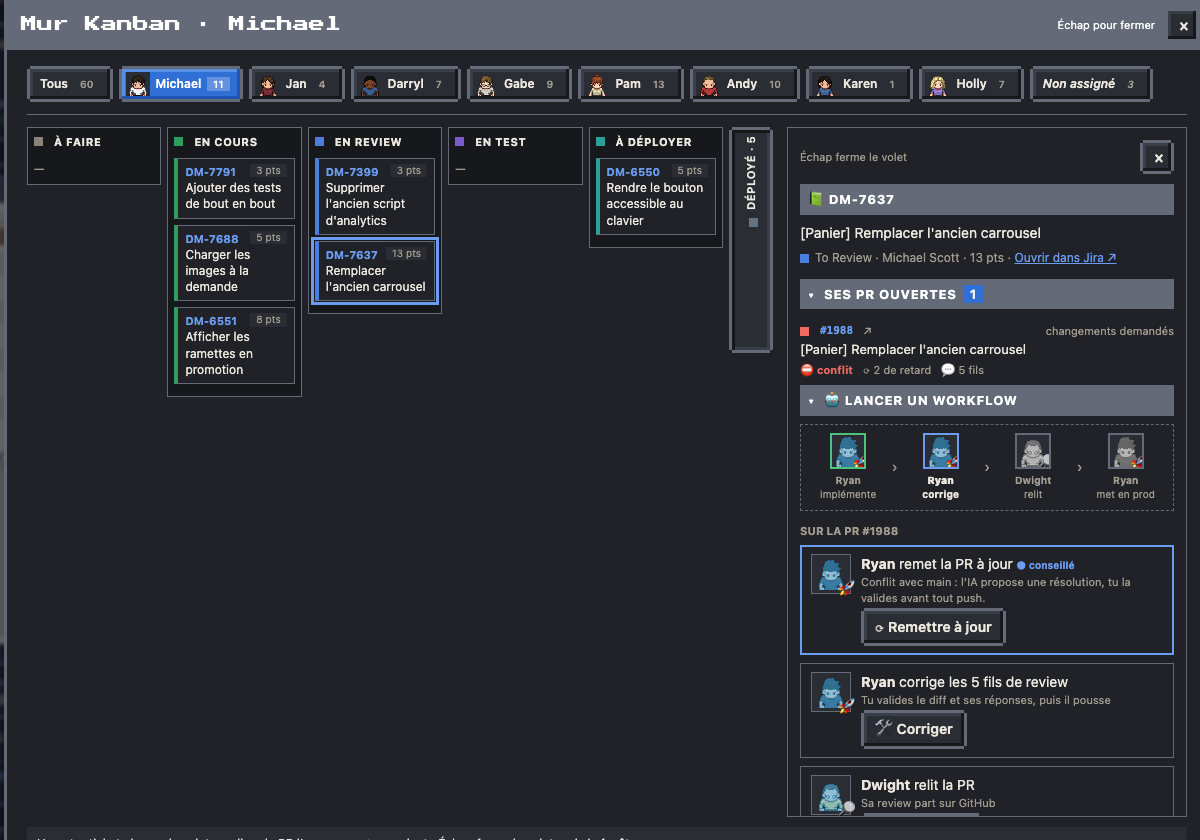
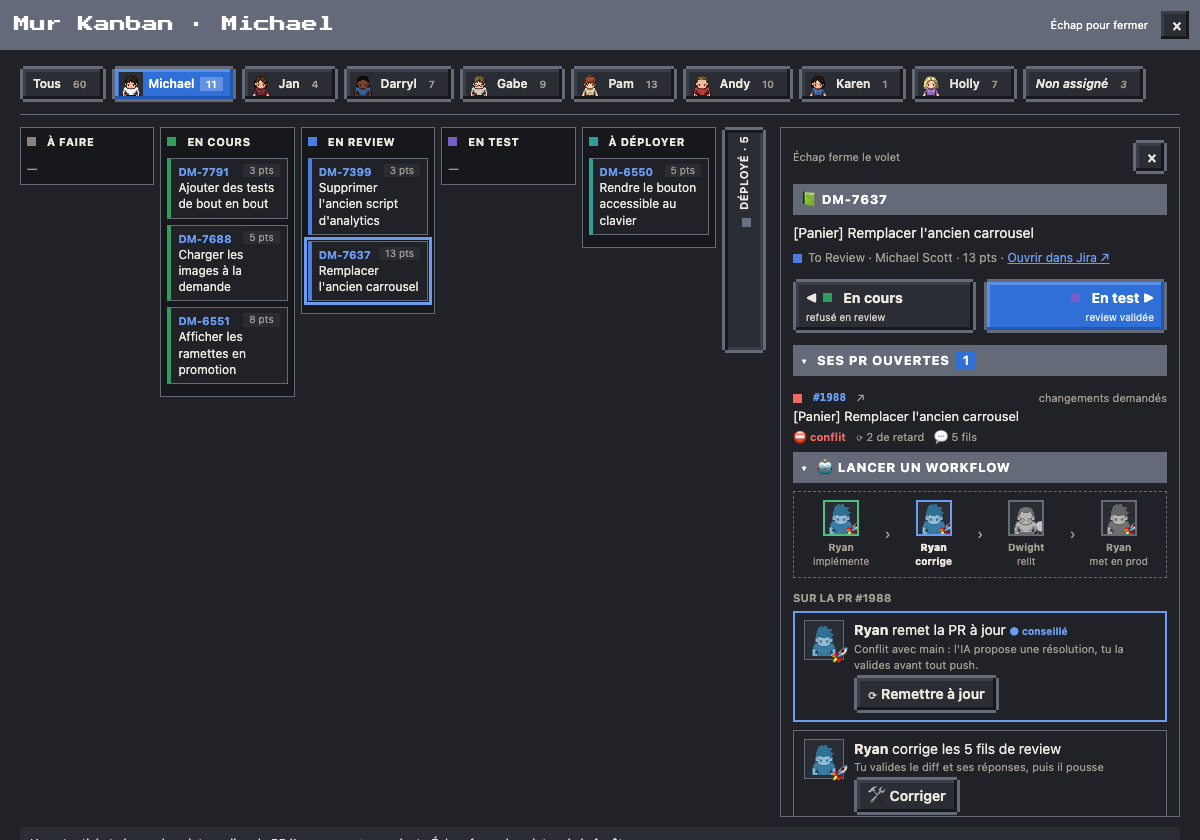
feat(jira): déplacer un ticket d'une colonne depuis sa fiche (◀ / ▶, 0 token) (#117)
## 🎯 Quoi et pourquoi
Pour faire changer un ticket de colonne, il fallait passer par Jira. Sa
fiche, dans le volet du Kanban, a maintenant deux boutons : « Colonne ▶
» pour avancer d'une colonne, « ◀ Colonne » pour reculer d'une colonne.
Ils lancent un workflow à 0 token qui fait la transition dans Jira.

Les règles viennent du workflow Jira EW, lu sur un ticket de chaque
statut : on avance de À faire jusqu'à Deployed, et on recule depuis En
cours jusqu'à To Deploy. Décisions prises sur maquettes : boutons seuls
(pas de glisser-déposer), les reculs que Jira autorise sauf Reopen, tous
les tickets du sprint, et un bouton manuel vers Deployed.

## 🔧 Changements
- **Workflow « Le Bureau · déplacer un ticket »**
(`workflows/templates/move.json`, `actions.move`, créé quand Jira est
connecté), sur la recette de « me l'affecter » :
- lire le ticket (s'il est déjà dans le statut visé, le run s'arrête là,
réussi) ;
- lire ses transitions et choisir celle qui mène au statut visé, par son
nom : une transition propre au flux plutôt qu'une globale, sans aucun id
écrit en dur. S'il n'y en a pas, le message liste ce que Jira propose ;
  - passer par l'API bulk, puis relire le ticket et vérifier son statut.
- **Bouton de page `bureau-move`** : la clé et le statut visé sont relus
par Kronn dans le dataset `actions` (`moves.find(id)`). La page n'envoie
que l'id de la ligne.
- **Dataset `actions`** (`actions_snapshot.py`) : une ligne `moves` par
[…]

diff --git a/page/src/62-ticket.js b/page/src/62-ticket.js
@@ -147,6 +147,42 @@ function launchBlock(box,{action,bind,name,sub,label,title,off,done,verb,next}){
   }).observe(b,{attributes:true,attributeFilter:['data-kronn-action-state']});
   host.append(b,n);kronnModal(host,b,title,()=>{const c=verb&&actAgent(action);return verb?{c,ico:'🤖',name:(c?c.name:'Le Bureau')+' '+verb,small:sub}:{ico:'🎫'};});box.appendChild(host);
 }
+// ◀ / ▶ : déplacer le ticket d'une colonne (workflow « déplacer un ticket », actions.move). Les sens et le statut Jira
+// visé viennent du dataset actions (moves, cron équipe) : le bouton n'envoie que l'id de la ligne, Kronn y relit le reste.
+// Avancer en bleu, reculer en gris ; chaque bouton dit la colonne visée et la raison du passage.
+const MV_ORDER=['todo','doing','review','test','deploy','done'];
+const MV_WHY={'doing>todo':'pas encore commencé','review>doing':'refusé en review','test>review':'à revoir','deploy>test':'à retester',
+  'todo>doing':'on s\'y met','doing>review':'PR prête','review>test':'review validée','test>deploy':'test validé','deploy>done':'mis en prod à la main'};
+// les boutons d'un ticket : [{m (ligne de actions.moves), to (colonne visée), why, bind}], reculer d'abord ; [] sans le workflow
+function mvRows(x){
+  if(!ACTIONS.move||!ACTS||!Array.isArray(ACTS.moves))return [];
+  return ['prev','next'].map(d=>ACTS.moves.find(m=>m.key===x.key&&m.dir===d)).filter(Boolean).map(m=>{
+    const to=MV_ORDER[MV_ORDER.indexOf(x.cat)+(m.dir==='next'?1:-1)];
+    return {m,to,why:MV_WHY[x.cat+'>'+to]||'',bind:bindsFor('bureau-move',m)};}).filter(r=>r.bind);
+}
+function moveBlock(side,x){
+  const rows=mvRows(x);if(!rows.length)return;
+  const host=document.createElement('div');host.className='mv-host';host.setAttribute('data-kronn-action-slot-host','');
+  const row=document.createElement('div');row.className='mv';host.appendChild(row);
+  const hint=document.createElement('div');hint.className='hint mv-hint'; // dans la fenêtre de la carte Kronn seulement
+  const note=document.createElement('div');note.className='note mv-note';
+  for(const {m,to,why,bind} of rows){
+    const c=TCAT[to]||{t:m.to,c:'var(--idle)'};
+    const b=document.createElement('button');b.type='button';b.className='mv-'+m.dir+(m.dir==='next'?' on':'');
+    b.title=(m.dir==='next'?'Avancer':'Reculer')+' : passer le ticket en '+m.to+' dans Jira';
+    b.innerHTML=`<span class="mv-col">${m.dir==='prev'?'◀ ':''}<span class="dot" style="background:${c.c}"></span>${esc(c.t)}${m.dir==='next'?' ▶':''}</span>${why?`<small>${esc(why)}</small>`:''}`;
+    b.setAttribute('data-kronn-action','bureau-move');b.setAttribute('data-kronn-bindings',JSON.stringify(bind));
+    b.addEventListener('click',()=>{hint.innerHTML=`<b>Lancer</b> : ${esc(x.key)} passe en <b>${esc(m.to)}</b> dans Jira (transition vérifiée par Kronn, 0 token). Sa carte change de colonne au prochain passage du cron équipe (10 min au plus).`;});
+    new MutationObserver(()=>{const v=b.getAttribute('data-kronn-action-state');
+      if(v==='succeeded')note.innerHTML=`<b style="color:var(--ok)">✓ Demandé.</b> ${esc(x.key)} passe en ${esc(m.to)} ; sa carte suivra au prochain passage du cron équipe.`;
+      else if(v==='failed')note.innerHTML='<b style="color:var(--err)">Déplacement refusé</b> : le détail est dans la carte (Jira ne propose peut-être pas ce passage).';
+    }).observe(b,{attributes:true,attributeFilter:['data-kronn-action-state']});
+    row.appendChild(b);
+    kronnModal(host,b,'Déplacer un ticket',{ico:'🗂',tag:m.dir==='next'?'Avancer ▶':'◀ Reculer',name:x.key+' : '+(x.status||'')+' → '+m.to,small:x.summary});
+  }
+  if(rows.some(r=>r.to==='done'))host.insertAdjacentHTML('beforeend','<div class="note mv-done">D\'habitude, la mise en prod passe le ticket en Déployé toute seule ; ce bouton le fait à la main.</div>');
+  host.append(hint,note);side.appendChild(host);
+}
 function renderTicket(side,key){
   const x=ticketOf(key);
   const jira=`<a href="${JIRA_BROWSE}${encodeURIComponent(key)}" target="_blank" rel="noopener" style="color:var(--accent)">Ouvrir dans Jira ↗</a>`;
@@ -162,6 +198,7 @@ function renderTicket(side,key){
     `<div style="font-size:12px;color:var(--muted)"><span class="dot" style="background:${cat.c};display:inline-block;margin-right:6px"></span>${esc(x.status||cat.t)}`+
     `${age?' depuis '+age:''} · ${x.owner?esc(x.owner):'non assigné'}${x.points?' · '+esc(x.points)+' pts':''} · ${jira}</div>`;
   side.appendChild(head);
+  moveBlock(side,x);
   const prs=prsOf(key);
   if(prs.length){
     const pb=foldSection(side,'tk-prs','Ses PR ouvertes',prs.length,true);

diff --git a/page/office_template.html b/page/office_template.html
@@ -95,6 +95,7 @@
 <script type="application/kronn-action" data-action-id="bureau-fix">{"kind":"workflow","target_id":"__FIX_WF__","values":[{"name":"pr","provenance":"dynamic_binding","source_ref":"<page.dataset.actions.prs.find(id).n>"},{"name":"notes","provenance":"user_input"},{"name":"repo","provenance":"dynamic_binding","source_ref":"<page.dataset.actions.prs.find(id).repo>"}]}</script>
 <script type="application/kronn-action" data-action-id="bureau-comment">{"kind":"workflow","target_id":"__COMMENT_WF__","values":[{"name":"jira_ticket_key","provenance":"dynamic_binding","source_ref":"<page.dataset.actions.tickets.find(key).key>"},{"name":"comment","provenance":"user_input"}]}</script>
 <script type="application/kronn-action" data-action-id="bureau-estimate">{"kind":"workflow","target_id":"__ESTIMATE_WF__","values":[{"name":"jira_ticket_key","provenance":"dynamic_binding","source_ref":"<page.dataset.actions.tickets.find(key).key>"},{"name":"story_points","provenance":"user_input"},{"name":"raison","provenance":"user_input"}]}</script>
+<script type="application/kronn-action" data-action-id="bureau-move">{"kind":"workflow","target_id":"__MOVE_WF__","values":[{"name":"jira_ticket_key","provenance":"dynamic_binding","source_ref":"<page.dataset.actions.moves.find(id).key>"},{"name":"target_status","provenance":"dynamic_binding","source_ref":"<page.dataset.actions.moves.find(id).to>"}]}</script>
 <script type="application/kronn-action" data-action-id="bureau-duck">{"kind":"workflow","target_id":"__DUCK_WF__","values":[{"name":"project_id","provenance":"dynamic_binding","source_ref":"<page.dataset.gates.projects.find(id).id>"},{"name":"title","provenance":"user_input"},{"name":"topic","provenance":"user_input"}]}</script>
 <script type="application/kronn-action" data-action-id="bureau-mailrules">{"kind":"workflow","target_id":"__MAILRULES_WF__","values":[]}</script>
 <script type="application/kronn-action" data-action-id="bureau-avatar">{"kind":"workflow","target_id":"__AVATAR_WF__","values":[{"name":"avatar_code","provenance":"user_input"}]}</script>

diff --git a/page/src/styles.css b/page/src/styles.css
@@ -242,6 +242,11 @@ button.back kbd{font:10px ui-monospace,Menlo,monospace;border:1px solid var(--li
 .kbw-strip{writing-mode:vertical-rl;transform:rotate(180deg);display:flex;align-items:center;justify-content:flex-end;gap:8px;min-height:220px;margin:0;padding:10px 0;font-size:11px;font-weight:700;text-transform:uppercase;letter-spacing:.05em;color:var(--muted)}
 .kbw-c.kb-on{outline:3px solid var(--accent);outline-offset:1px}
 .kbv.side{position:sticky;top:64px;max-height:calc(84vh - 150px);overflow:auto;padding:12px;margin:0;border:1px solid var(--line);border-radius:10px;background:var(--panel);box-shadow:none}
+.mv-host{display:block;margin:0 0 12px}
+.mv{display:flex;gap:8px;align-items:stretch}
+.mv button{flex:1;display:flex;flex-direction:column;align-items:flex-start;gap:2px;padding:6px 10px;text-align:left}.mv button.mv-next{align-items:flex-end;text-align:right}
+.mv button small{font-size:10px;font-weight:400;opacity:.85}.mv-col{display:inline-flex;align-items:center;gap:6px;font-weight:700}
+.mv-done{font-size:11px;margin:6px 0 0}.mv-note:empty,.mv-hint{display:none}.kmodal .mv-hint{display:block}.kmodal .mv,.kmodal .mv-done,.kmodal .mv-note{display:none}
 .kbv-tag{font-size:11px;font-weight:700;padding:2px 8px;border-radius:999px;background:color-mix(in srgb,var(--warn) 20%,transparent);color:var(--ink)}
 .kbv-top{display:flex;justify-content:space-between;align-items:center;gap:8px;margin:0 0 10px}.kbv-top .back{margin:0}.kbv-esc{font-size:11px;color:var(--muted)}
 @media (max-width:900px){.kb-vol .kbm{grid-template-columns:minmax(0,1fr)}.kb-vol .kbw{display:none}.kbv.side{position:static;max-height:none}}

diff --git a/tests/boot.test.js b/tests/boot.test.js
@@ -25,10 +25,10 @@ test('les données Kronn (window.KronnPageData) remplacent la démo', () => {
   assert.equal(run('LIVE_DATA'), true);
 });
 
-test('squelette : 21 blocs kronn-action et les marqueurs CSS / JS', () => {
+test('squelette : 22 blocs kronn-action et les marqueurs CSS / JS', () => {
   const html = fs.readFileSync(path.join(__dirname, '..', 'page', 'office_template.html'), 'utf8');
   const ids = [...html.matchAll(/<script type="application\/kronn-action" data-action-id="([^"]+)">/g)].map(m => m[1]);
-  assert.deepEqual(ids, ['bureau-ask', 'bureau-relaunch', 'bureau-gate', 'bureau-answer', 'bureau-impl', 'bureau-mep', 'bureau-review', 'bureau-fix', 'bureau-comment', 'bureau-estimate', 'bureau-duck', 'bureau-mailrules', 'bureau-avatar', 'bureau-agent', 'bureau-launch', 'bureau-pages', 'bureau-todo', 'bureau-rebase', 'bureau-fixpr', 'bureau-meppr', 'bureau-support']);
+  assert.deepEqual(ids, ['bureau-ask', 'bureau-relaunch', 'bureau-gate', 'bureau-answer', 'bureau-impl', 'bureau-mep', 'bureau-review', 'bureau-fix', 'bureau-comment', 'bureau-estimate', 'bureau-move', 'bureau-duck', 'bureau-mailrules', 'bureau-avatar', 'bureau-agent', 'bureau-launch', 'bureau-pages', 'bureau-todo', 'bureau-rebase', 'bureau-fixpr', 'bureau-meppr', 'bureau-support']);
   assert.equal(html.split('/*__STYLES__*/\n').length, 2);
   assert.equal(html.split('/*__SCRIPTS__*/\n').length, 2);
 });

diff --git a/tests/kanban.test.js b/tests/kanban.test.js
@@ -52,3 +52,14 @@ test('une PR sans ticket dans le sprint est signalée dans le volet', () => {
   assert.equal(r.a, true);
   assert.equal(r.b, false);
 });
+
+test('déplacer : ◀ puis ▶, liés à leur ligne de actions.moves (Kronn y relit clé et statut) ; rien sans le workflow', () => {
+  const t = J("TEAM.people.flatMap(p=>p.tickets).find(t=>t.cat==='review')");
+  run(`ACTIONS.move=true;ACTION_BINDS['bureau-move']={jira_ticket_key:'id',target_status:'id'};
+       ACTS={tickets:[],prs:[],moves:[{id:'${t.key}|next',key:'${t.key}',dir:'next',to:'To Test'},{id:'${t.key}|prev',key:'${t.key}',dir:'prev',to:'En cours'}]};`);
+  const r = J(`mvRows(${JSON.stringify(t)}).map(x=>[x.m.dir,x.to,x.why,x.bind])`);
+  assert.deepEqual(r, [['prev', 'doing', 'refusé en review', {jira_ticket_key: t.key + '|prev', target_status: t.key + '|prev'}],
+                       ['next', 'test', 'review validée', {jira_ticket_key: t.key + '|next', target_status: t.key + '|next'}]]);
+  run('ACTIONS.move=false;');
+  assert.deepEqual(J(`mvRows(${JSON.stringify(t)})`), []);
+});

diff --git a/tests/test_install.py b/tests/test_install.py
@@ -123,7 +123,7 @@ class InstallTest(unittest.TestCase):
         posts = [(p, b) for m, p, b in k.calls if m == "POST"]
         page = next(b for p, b in posts if p == "/pages")
         self.assertEqual([d["name"] for d in page["datasets"]], install.DATASETS)
-        self.assertEqual(sum(1 for p, _ in posts if p == "/workflows"), 21)  # Mes todos compris ; dont les 4 modèles d'agents proposés par défaut avec Jira (réestimer, issue GitHub, m'affecter, me désaffecter ; pas la revue de PR sans connexion GitHub), puis remettre une PR à jour et corriger ses commentaires, les agents et les pages de l'écran mural ajoutés depuis la page, commenter un ticket (Jira connecté), parler au canard, le canard d'équipe et répondre aux questions
+        self.assertEqual(sum(1 for p, _ in posts if p == "/workflows"), 22)  # Mes todos compris ; déplacer un ticket (Jira connecté) ; dont les 4 modèles d'agents proposés par défaut avec Jira (réestimer, issue GitHub, m'affecter, me désaffecter ; pas la revue de PR sans connexion GitHub), puis remettre une PR à jour et corriger ses commentaires, les agents et les pages de l'écran mural ajoutés depuis la page, commenter un ticket (Jira connecté), parler au canard, le canard d'équipe et répondre aux questions
         self.assertEqual(sum(1 for p, _ in posts if p == "/quick-prompts"), 2)  # interroger un agent, plan vers brouillon
         cfg = json.loads(Path(self.cfg_path).read_text())
         self.assertEqual(cfg["owner"], "p_lynn")
@@ -170,7 +170,7 @@ class InstallTest(unittest.TestCase):
         with mock.patch.object(install, "Kronn", return_value=first):
             self.assertEqual(self.run_install(ANSWERS), 0)
         posts = [p for m, p, _ in first.calls if m == "POST" and p in ("/pages", "/workflows", "/quick-prompts")]
-        self.assertEqual(len(posts), 1 + 21 + 2)  # rien de recréé à la relance
+        self.assertEqual(len(posts), 1 + 22 + 2)  # rien de recréé à la relance
 
     def test_relaunch_adds_missing_datasets(self):
         self.run_install(ANSWERS)
@@ -211,7 +211,7 @@ class InstallTest(unittest.TestCase):
         k = self.fakes[-1]
         cfg = json.loads(Path(self.cfg_path).read_text())
         self.assertEqual(cfg["workflows"]["live"], FakeKronn.LIVE)
-        self.assertEqual(sum(1 for m, p, _ in k.calls if m == "POST" and p == "/workflows"), 20)
+        self.assertEqual(sum(1 for m, p, _ in k.calls if m == "POST" and p == "/workflows"), 21)
         self.assertTrue([1 for m, p, _ in k.calls if m == "PUT" and p == f"/workflows/{FakeKronn.LIVE}"])  # mis à jour
         self.assertEqual([a["name"] for a in cfg["agents"]], ["Dwight"])
 
@@ -243,7 +243,7 @@ class InstallTest(unittest.TestCase):
             self.assertFalse([1 for m, _, _ in k.calls if m == "DELETE"])
             self.assertEqual(uninstall.main(["--config", self.cfg_path, "--yes"]), 0)
         deleted = [p for m, p, _ in k.calls if m == "DELETE"]
-        self.assertEqual(len(deleted), 20 + 2 + 1)  # 20 workflows, les 2 QP, la page
+        self.assertEqual(len(deleted), 21 + 2 + 1)  # 21 workflows, les 2 QP, la page
         self.assertNotIn(f"/workflows/{mine}", deleted)
         self.assertEqual(deleted[-1], f"/pages/{cfg['page_id']}")  # la page en dernier
         after = json.loads(Path(self.cfg_path).read_text())

diff --git a/tools/shots.py b/tools/shots.py
@@ -31,8 +31,10 @@ DEMO_PROJO = (DEMO_PAGES + "BOSS_PAGES[0].kpi={value:'82 %',label:'du CA visé',
               "BOSS_PAGES[2].kpi={value:'46 avis',label:'cette semaine',parts:[[30,'#3fbf6a'],[10,'#e0a020'],[6,'#e0614f']],short:'Satisfaction'};"
               "PAGE_TV=['demo0','demo2','demo3'];")
 # démo des fiches de ticket : actions et PR branchées (comme fiche-ticket), le ticket d'une PR en conflit et son personnage
-KB_DEMO = ("ACTIONS.estimate=true;ACTION_BINDS['bureau-estimate']={jira_ticket_key:'key'};const _all=TEAM.people.flatMap(p=>p.tickets),_prs=TEAM.people.flatMap(p=>p.prs);"
-           "ACTS={tickets:_all.map(t=>({key:t.key})),prs:_prs.map(x=>({id:prId(x),n:String(x.n),repo:prRepo(x)}))};"
+KB_DEMO = ("ACTIONS.estimate=true;ACTION_BINDS['bureau-estimate']={jira_ticket_key:'key'};ACTIONS.move=true;ACTION_BINDS['bureau-move']={jira_ticket_key:'id',target_status:'id'};const _all=TEAM.people.flatMap(p=>p.tickets),_prs=TEAM.people.flatMap(p=>p.prs);"
+           "const _st={todo:'À faire',doing:'En cours',review:'To Review',test:'To Test',deploy:'To Deploy',done:'Deployed'},_o=MV_ORDER;"
+           "ACTS={tickets:_all.map(t=>({key:t.key})),prs:_prs.map(x=>({id:prId(x),n:String(x.n),repo:prRepo(x)})),"
+           "moves:_all.flatMap(t=>{const i=_o.indexOf(t.cat);return [['prev',i>=1&&i<=4?_o[i-1]:null],['next',i<=4?_o[i+1]:null]].filter(([,c])=>c).map(([d,c])=>({id:t.key+'|'+d,key:t.key,dir:d,to:_st[c]}));})};"
            "const KB_P=_prs.find(x=>x.review==='changes'&&!x.draft&&(x.keys||[]).length),KB_K=KB_P.keys[0],"
            "KB_W=(kbPeople().find(c=>c.team.tickets.some(t=>t.key===KB_K))||{}).key;")
 SHOTS = {
@@ -170,6 +172,9 @@ SHOTS = {
     "kanban-volet-pr": (1600, 1000, AT(11) + KB_DEMO + "openKanban({who:KB_W,ticket:KB_K});openPr(prId(KB_P));", ".bp-wide"),
     # une PR sans ticket dans le sprint (« Ses autres PR ouvertes ») : le Kanban filtré sur son auteur, la PR dans le volet
     "kanban-volet-pr-seule": (1600, 1000, AT(11) + KB_DEMO + "const _c=kbPeople().find(c=>loosePrs(c.team).length);openPr(prId(loosePrs(_c.team)[0]));", ".bp-wide"),
+    # déplacer un ticket (◀ / ▶ de sa fiche, workflow « déplacer un ticket ») : le volet d'un ticket en review, puis la carte Kronn
+    "kanban-deplacer": (1600, 1000, AT(11) + KB_DEMO + "openTicket(_all.find(t=>t.cat==='review').key);", ".kbv"),
+    "carte-deplacer": (1400, 1000, AT(11) + KB_DEMO + "openTicket(_all.find(t=>t.cat==='review').key);document.querySelector('.kbv .mv-next').click();", ".kmodal"),
     # le Kanban filtré sur une personne (barre de portraits en haut)
     "kanban-personne": (1600, 1000, AT(11) + "select('kanban');KB_WHO=kbPeople()[0].key;kanbanFill(document.querySelector('.bp-wbody'));", ".bp-wide"),
     # fiche d'un ticket : ses PR et les workflows à lancer (dataset actions simulé depuis l'équipe de démo)

diff --git a/workflows/actions_snapshot.py b/workflows/actions_snapshot.py
@@ -9,6 +9,11 @@ Sortie (stdout) : {generated_at, repo, tickets[{key, cat, pr}], prs[{id, n, repo
   prête plutôt qu'un brouillon), sinon "" (le workflow de mise en prod, qui travaille sur ce dépôt, la cherche alors).
 - prs : PR ouvertes de tous les dépôts suivis (#56), chacune avec son vrai dépôt ; id = « owner/repo#n », la clé que
   relisent « Faire relire » (repo, pr) et « Corriger » (pr) : deux #16 de deux dépôts ne se confondent jamais.
+- moves : les déplacements d'un ticket d'une colonne (◀ / ▶ de sa fiche, workflow « déplacer un ticket »), une ligne par
+  sens : id « clé|prev » ou « clé|next », key, dir, to = le statut Jira visé, que Kronn relit (le bouton n'envoie que l'id).
+  Avancer d'une colonne jusqu'à « Déployé », reculer d'une colonne depuis « En cours » jusqu'à « À déployer » ; le statut
+  visé est le premier que jira.statuses range dans la colonne voisine. jira.moves les règle par colonne :
+  {"review": {"prev": "En cours", "next": "To Test"}}, null pour retirer un sens.
 - warnings (#8) : dataset team illisible, listes vides publiées quand même ; écrit aussi sur stderr (run Kronn).
 """
 import json, sys
@@ -38,9 +43,26 @@ def pr_of(key):
     return str(cited[0]["n"]) if cited else ""
 
 
+ORDER = ["todo", "doing", "review", "test", "deploy", "done"]
+JIRA = CFG.get("jira") or {}
+first = {}
+for st, cat in (JIRA.get("statuses") or {}).items():
+    first.setdefault(cat, st)
+MOVES = {c: {"prev": first.get(ORDER[i - 1]) if 1 <= i <= 4 else None, "next": first.get(ORDER[i + 1]) if i <= 4 else None}
+         for i, c in enumerate(ORDER)}
+for c, m in (JIRA.get("moves") or {}).items():
+    MOVES.setdefault(c, {}).update(m or {})
+
+
+def moves_of(t):
+    m = MOVES.get(t.get("cat")) or {}
+    return [{"id": f"{t['key']}|{d}", "key": t["key"], "dir": d, "to": m[d]} for d in ("prev", "next") if m.get(d)]
+
+
 tickets = [x for p in people for x in p.get("tickets") or []] + list(team.get("unassigned") or [])
 out = {"generated_at": datetime.now(TZ).isoformat(), "repo": repo,
        "tickets": [{"key": t["key"], "cat": t.get("cat"), "pr": pr_of(t["key"])} for t in tickets if t.get("key")],
        "prs": [{"id": f"{repo_of(x)}#{x['n']}", "n": str(x["n"]), "repo": repo_of(x)} for x in prs if x.get("n")],
+       "moves": [m for t in tickets if t.get("key") for m in moves_of(t)],
        "warnings": warnings}
 print(dumps(out))

diff --git a/tests/test_scripts.py b/tests/test_scripts.py
@@ -565,6 +565,23 @@ print(json.dumps(val))
                                       {"id": "acme/api#4", "n": "4", "repo": "acme/api"}])
         self.assertEqual(out["tickets"], [{"key": "DM-1", "cat": "deploy", "pr": ""}])  # sa seule PR est sur acme/api
 
+    def test_actions_moves_one_column_each_way(self):
+        """actions.moves : ◀ / ▶ d'un ticket vers la colonne voisine, statut visé = le premier que jira.statuses y range ;
+        rien depuis « Déployé », pas de recul depuis « À faire » ; jira.moves règle un sens (null le retire)."""
+        fake = FakeKronn()
+        team = {"people": [{"name": "Pam", "tickets": [{"key": "DM-1", "cat": "todo"}, {"key": "DM-2", "cat": "review"},
+                                                       {"key": "DM-3", "cat": "deploy"}, {"key": "DM-4", "cat": "done"}], "prs": []}]}
+        fake.datasets = [{"name": "team", "current": json.dumps(team)}]
+        st = {"À faire": "todo", "En cours": "doing", "Reopen": "doing", "To Review": "review", "To Test": "test", "To Deploy": "deploy", "Deployed": "done"}
+        out = self.run_script("actions_snapshot.py", api=self.kronn(fake), jira=dict(FIXTURE.get("jira") or {}, statuses=st))
+        self.assertEqual([(m["id"], m["to"]) for m in out["moves"]],
+                         [("DM-1|next", "En cours"), ("DM-2|prev", "En cours"), ("DM-2|next", "To Test"),
+                          ("DM-3|prev", "To Test"), ("DM-3|next", "Deployed")])
+        out = self.run_script("actions_snapshot.py", api=self.kronn(fake),
+                              jira=dict(FIXTURE.get("jira") or {}, statuses=st, moves={"deploy": {"next": None}, "review": {"prev": "Reopen"}}))
+        self.assertEqual([(m["id"], m["to"]) for m in out["moves"]],
+                         [("DM-1|next", "En cours"), ("DM-2|prev", "Reopen"), ("DM-2|next", "To Test"), ("DM-3|prev", "To Test")])
+
     # ---------- canard d'équipe ----------
     def velocity(self, done):
         """Graphique de vélocité Jira : sprints du plus récent au plus ancien, points terminés de chacun."""

diff --git a/tools/templates.py b/tools/templates.py
@@ -47,6 +47,7 @@ TEMPLATES = {
     "relaunch": ("workflow", ("actions", "relaunch"), {"relaunch": "workflows/relaunch.py"}),
     "layout": ("workflow", ("actions", "layout"), {"save": "workflows/layout_save.py"}),
     "comment": ("workflow", ("actions", "comment"), {}),  # commentaire Jira depuis la fiche d'un ticket (sans Jira : pas créé)
+    "move": ("workflow", ("actions", "move"), {}),  # déplacer un ticket d'une colonne (◀ / ▶ de sa fiche) : transition Jira, 0 token
     "duck": ("workflow", ("actions", "duck"), {"start": "workflows/duck_start.py"}),  # parler au canard : une discussion Kronn
     "todo": ("workflow", ("actions", "todo"), {"save": "workflows/todos.py"}),  # Mes todos du boss : tâches Kronn, tableau en liège
     # mise en prod d'une PR, tout projet (#58) : id rangé dans launch (jamais dans BUREAU_IDS : l'agent qui l'incarne
@@ -202,7 +203,7 @@ def skipped(key, cfg):
     absences sans planning Microsoft 365 (microsoft.config_id et microsoft.planning dans la config), le courrier sans
     compte (mail.accounts), la console Support sans canal (support.team, support.channel)."""
     cfg = assemble.merged(cfg)  # planning des absences : dans le pack (#32)
-    if key == "comment":
+    if key in ("comment", "move"):
         return not (cfg.get("jira") or {}).get("config_id")
     if key == "absences":
         m = cfg.get("microsoft") or {}

diff --git a/tools/assemble.py b/tools/assemble.py
@@ -29,6 +29,7 @@ ACTIONS = {"bureau-avatar": ("avatar", "__AVATAR_WF__"), "bureau-gate": ("gate",
            "bureau-agent": ("agent", "__AGENT_WF__"), "bureau-pages": ("pages", "__PAGES_WF__"),
            "bureau-meppr": ("mep_pr", "__MEPPR_WF__"), "bureau-rebase": ("rebase", "__REBASE_WF__"),
            "bureau-fixpr": ("fix_pr", "__FIXPR_WF__"), "bureau-todo": ("todo", "__TODO_WF__"),
+           "bureau-move": ("move", "__MOVE_WF__"),  # déplacer un ticket d'une colonne (statut cible relu dans actions.moves)
            # console Support (#62) : investiguer un message (modèle support) ; relever le canal : « ↻ » du panneau Fraîcheur
            "bureau-support": ("support", "__SUPPORT_WF__")}
 # variables des workflows de la clé launch : rôle -> nom par défaut ; launch.<action> = id seul, ou {wf, vars: {rôle: nom

diff --git a/tools/smoke.py b/tools/smoke.py
@@ -94,7 +94,7 @@ def static_checks(html, cfg=None, published=None):
         if acts.get(key):  # bouton sans workflow configuré : bloc retiré à l'assemblage
             expected.append(assemble.action_block(b, c))
     found = ACTION_RE.findall(html)
-    check(total == 21, f"{total} blocs kronn-action dans le squelette (attendu 21)")
+    check(total == 22, f"{total} blocs kronn-action dans le squelette (attendu 22)")
     check(found == expected, f"blocs kronn-action attendus présents à l'identique ({len(expected)}/14 configurés)")
     for b in found:
         body = b.split(">", 1)[1].rsplit("</script>", 1)[0]
